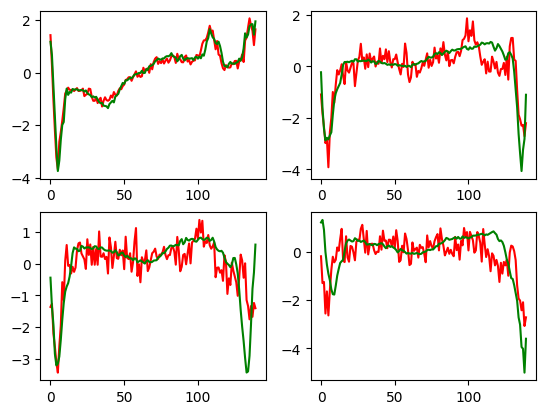
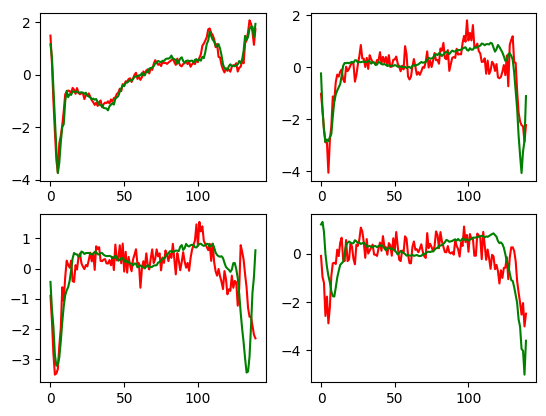
README: update results with new global seed

diff --git a/README.md b/README.md
@@ -119,12 +119,12 @@ It is composed by:
 ## Reconstruction results
 Because of the small size of the dataset, the similarity of the **normal** signals and the single feature considered, the **autoencoder** quickly reaches a small loss (**MSE**) of under 10 in 3-5 iterations. If the training is performed for more epochs it can reach a training loss of under 3, but risks **overfitting** on the training data and fails to also reconstruct the validation data of the same class.
 
-The following plots are the results of a model with a loss of: **4.59**
+The following plots are the results of a model with a test loss of: **6.13357**
 
 ![Plot](.github/assets/plots/normal.png)
 
 ## Classification results
-The model can be used for **anomaly detection** because, having being trained only on a specific class (**normal**), it has not learned to reconstruct different kinds of **abnormal** classes. The previous model achieved an **F1 score** of **0.92** by classifing as anomalies values above **15MSE**. This shows it's ability to distinguish the different classes.
+The model can be used for **anomaly detection** because, having being trained only on a specific class (**normal**), it has not learned to reconstruct different kinds of **abnormal** classes. The previous model achieved an **F1 score** of **0.919275** by classifing as anomalies values above **15MSE**. This shows it's ability to distinguish the different classes.
 
 In the following plot, the top-left reconstruction belongs to a **normal** signal, while the other three belong to **anomalies**. It can be clearly seen the **anomalies** have a greatly more noisy reconstruction.
 
